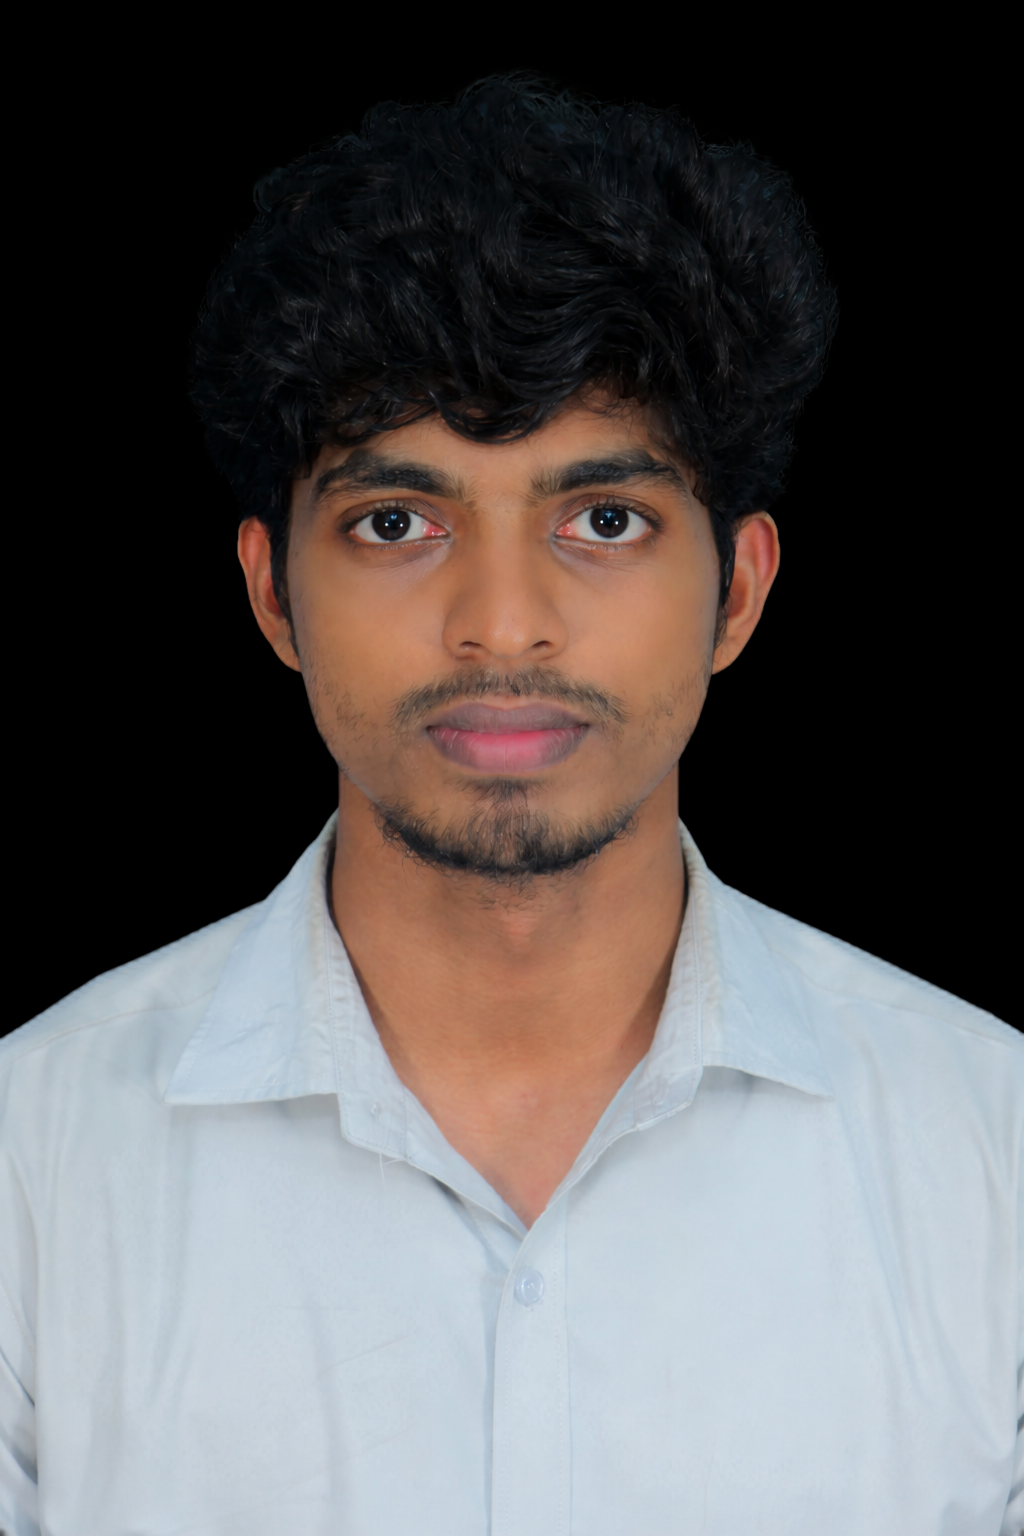
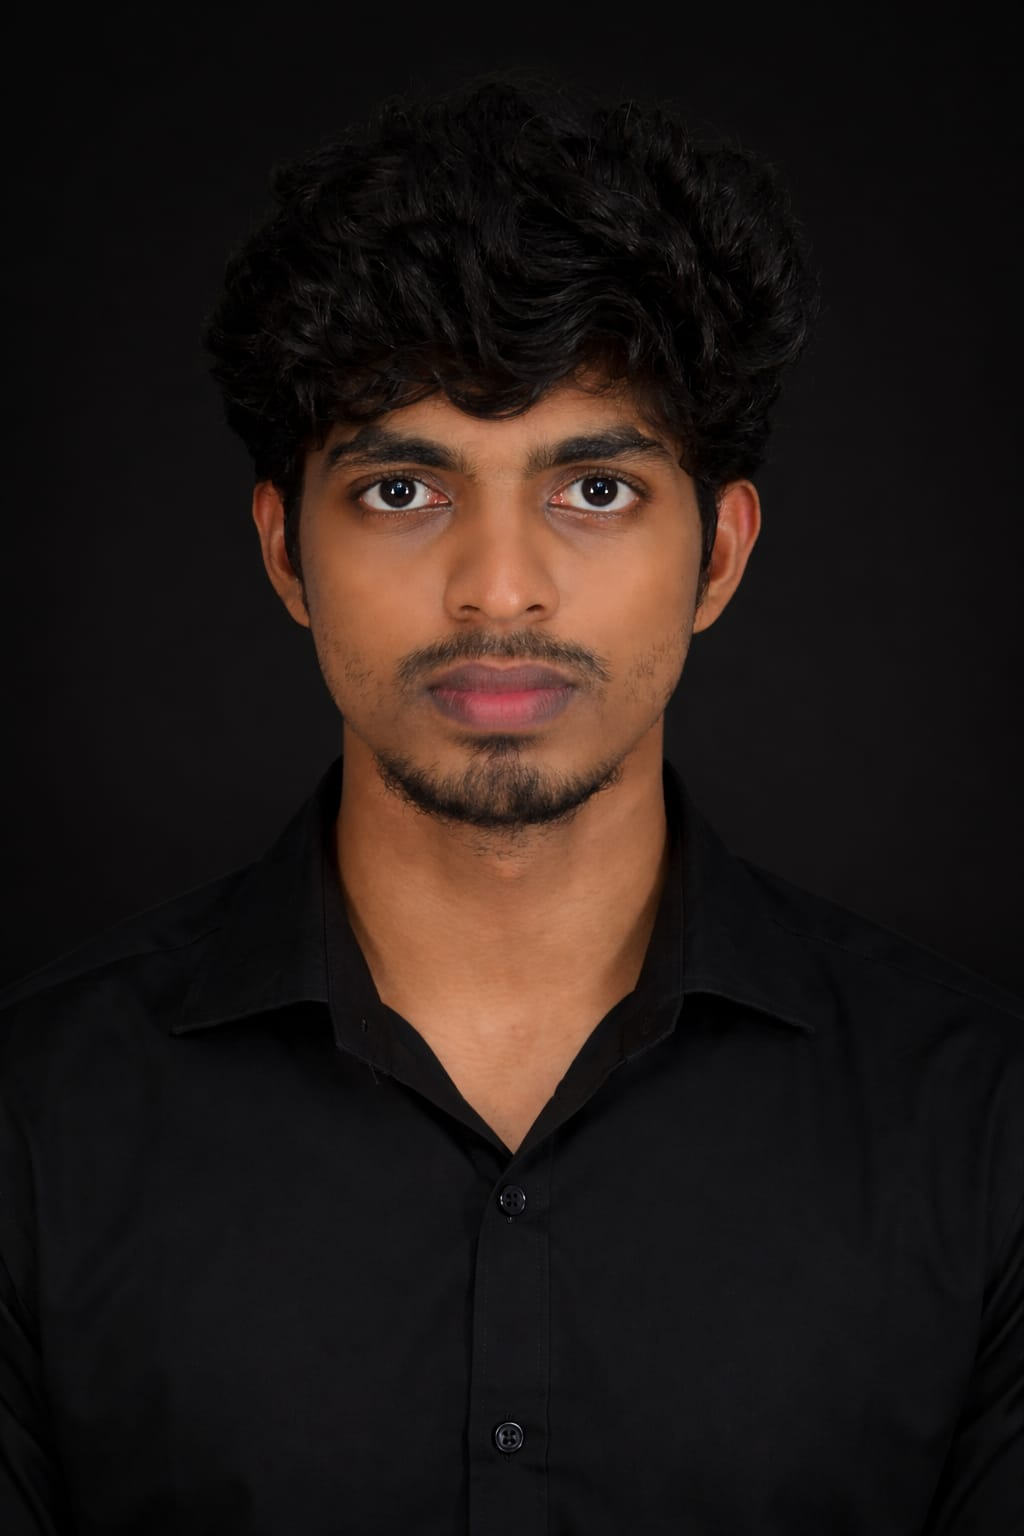
chore: update team imagery with newly provided assets
- Updated Shafeek's image to shafeek.jpeg in team.html and founder.html
- Updated Balamurali V's image to balamurali_black.png
- Added new images for Thanu Siva N and Naveed N
- Reverted Ifthikar to placeholder SVG (image missing on disk)

diff --git a/team.html b/team.html
@@ -311,7 +311,7 @@
 <div class="service-card reveal-element text-center" data-aos="fade-up" style="max-width: 400px; width: 100%;">
 <div class="founder-photo-wrapper-modern mb-8" style="display: inline-block; position: relative;">
 <div class="founder-portrait-frame mx-auto" style="width: 200px; height: 260px; border-radius: 24px;">
-<img alt="Ahamed Shafeek" class="founder-portrait-img" decoding="async" height="600" loading="lazy" src="image/team/shafeek_solid.png" width="800"/>
+<img alt="Ahamed Shafeek" class="founder-portrait-img" decoding="async" height="600" loading="lazy" src="image/team/shafeek.jpeg" width="800"/>
 <div class="portrait-overlay-glow"></div>
 </div>
 <div class="visionary-badge" style="bottom: -10px; right: -20px; padding: 8px 16px; font-size: 0.75rem;">
@@ -347,8 +347,8 @@
 </div>
 <!-- Ifthikar -->
 <div class="service-card reveal-element" data-aos="fade-up" data-aos-delay="100" style="flex: 1 1 300px; max-width: 340px; width: 100%;">
-<div class="service-icon mb-4 mx-auto" style="width: 80px; height: 80px; border-radius: 50%; overflow: hidden;">
-<img alt="Ifthikar" decoding="async" height="600" loading="lazy" src="image/team/ifthikar.jpg" style="width: 100%; height: 100%; object-fit: cover; filter: grayscale(1) brightness(0.8);" width="800"/>
+<div class="service-icon mb-4 mx-auto" style="width: 80px; height: 80px; border-radius: 50%; overflow: hidden; background: #000;">
+<svg fill="none" stroke="rgba(255,255,255,0.4)" stroke-width="1.5" style="width:40px; height:40px; margin: 20px auto;" viewbox="0 0 24 24"><path d="M20 21v-2a4 4 0 0 0-4-4H8a4 4 0 0 0-4 4v2"></path><circle cx="12" cy="7" r="4"></circle></svg>
 </div>
 <h4 class="professional-title text-center" style="font-size: 1.25rem; margin-bottom: 0.25rem;">Ifthikar</h4>
 <p class="label text-center mb-3" style="font-size: 0.8rem; color: var(--primary-blue);">Chief Technology Officer</p>
@@ -392,7 +392,7 @@
 <!-- Balamurali V -->
 <div class="service-card reveal-element text-center" data-aos="fade-up" style="max-width: 400px; width: 100%;">
 <div class="service-icon mb-4 mx-auto" style="width: 100px; height: 100px; border-radius: 50%; overflow: hidden;">
-<img alt="Balamurali V" decoding="async" height="600" loading="lazy" src="image/team/balamurali_black_solid.png" style="width: 100%; height: 100%; object-fit: cover;" width="800"/>
+<img alt="Balamurali V" decoding="async" height="600" loading="lazy" src="image/team/balamurali_black.png" style="width: 100%; height: 100%; object-fit: cover;" width="800"/>
 </div>
 <h4 class="professional-title text-center" style="font-size: 1.5rem;">Balamurali V</h4>
 <p class="text-secondary text-center text-sm">Driving revenue growth and leading client acquisition strategies.</p>
@@ -405,8 +405,8 @@
 <div style="display: flex; flex-wrap: wrap; justify-content: center; gap: 2rem; max-width: 1100px; margin: 0 auto;">
 <!-- Thanu Siva N -->
 <div class="service-card reveal-element" data-aos="fade-up" style="flex: 1 1 300px; max-width: 340px; width: 100%;">
-<div class="service-icon mb-4 mx-auto" style="width: 80px; height: 80px; border-radius: 50%; overflow: hidden; background: #000;">
-<svg fill="none" stroke="rgba(255,255,255,0.4)" stroke-width="1.5" style="width:40px; height:40px; margin: 20px auto;" viewbox="0 0 24 24"><path d="M20 21v-2a4 4 0 0 0-4-4H8a4 4 0 0 0-4 4v2"></path><circle cx="12" cy="7" r="4"></circle></svg>
+<div class="service-icon mb-4 mx-auto" style="width: 80px; height: 80px; border-radius: 50%; overflow: hidden;">
+<img alt="Thanu Siva N" decoding="async" height="600" loading="lazy" src="image/team/thanusiva.jpeg" style="width: 100%; height: 100%; object-fit: cover;" width="800"/>
 </div>
 <h4 class="professional-title text-center" style="font-size: 1.25rem;">Thanu Siva N</h4>
 </div>
@@ -433,8 +433,8 @@
 </div>
 <!-- Naveed N -->
 <div class="service-card reveal-element" data-aos="fade-up" data-aos-delay="100" style="flex: 1 1 300px; max-width: 340px; width: 100%;">
-<div class="service-icon mb-4 mx-auto" style="width: 80px; height: 80px; border-radius: 50%; overflow: hidden; background: #000;">
-<svg fill="none" stroke="rgba(255,255,255,0.4)" stroke-width="1.5" style="width:40px; height:40px; margin: 20px auto;" viewbox="0 0 24 24"><path d="M20 21v-2a4 4 0 0 0-4-4H8a4 4 0 0 0-4 4v2"></path><circle cx="12" cy="7" r="4"></circle></svg>
+<div class="service-icon mb-4 mx-auto" style="width: 80px; height: 80px; border-radius: 50%; overflow: hidden;">
+<img alt="Naveed N" decoding="async" height="600" loading="lazy" src="image/team/naveed.jpeg" style="width: 100%; height: 100%; object-fit: cover;" width="800"/>
 </div>
 <h4 class="professional-title text-center" style="font-size: 1.25rem;">Naveed N</h4>
 </div>

diff --git a/founder.html b/founder.html
@@ -73,7 +73,7 @@
           "@id": "https://z3connect.com/#organization"
         },
         "url": "https://z3connect.com/founder.html",
-        "image": "https://z3connect.com/image/team/shafeek_solid.png",
+        "image": "https://z3connect.com/image/team/shafeek.jpeg",
         "sameAs": [
           "https://linkedin.com/in/ahamedshafeek",
           "https://instagram.com/z3connect"
@@ -338,7 +338,7 @@
 </div>
 <div class="founder-photo-wrapper-modern">
 <div class="founder-portrait-frame">
-<img alt="Ahamed Shafeek" class="founder-portrait-img" decoding="async" height="600" loading="lazy" src="image/team/shafeek_solid.png" width="800"/>
+<img alt="Ahamed Shafeek" class="founder-portrait-img" decoding="async" height="600" loading="lazy" src="image/team/shafeek.jpeg" width="800"/>
 <div class="portrait-overlay-glow"></div>
 </div>
 <div class="visionary-badge">
